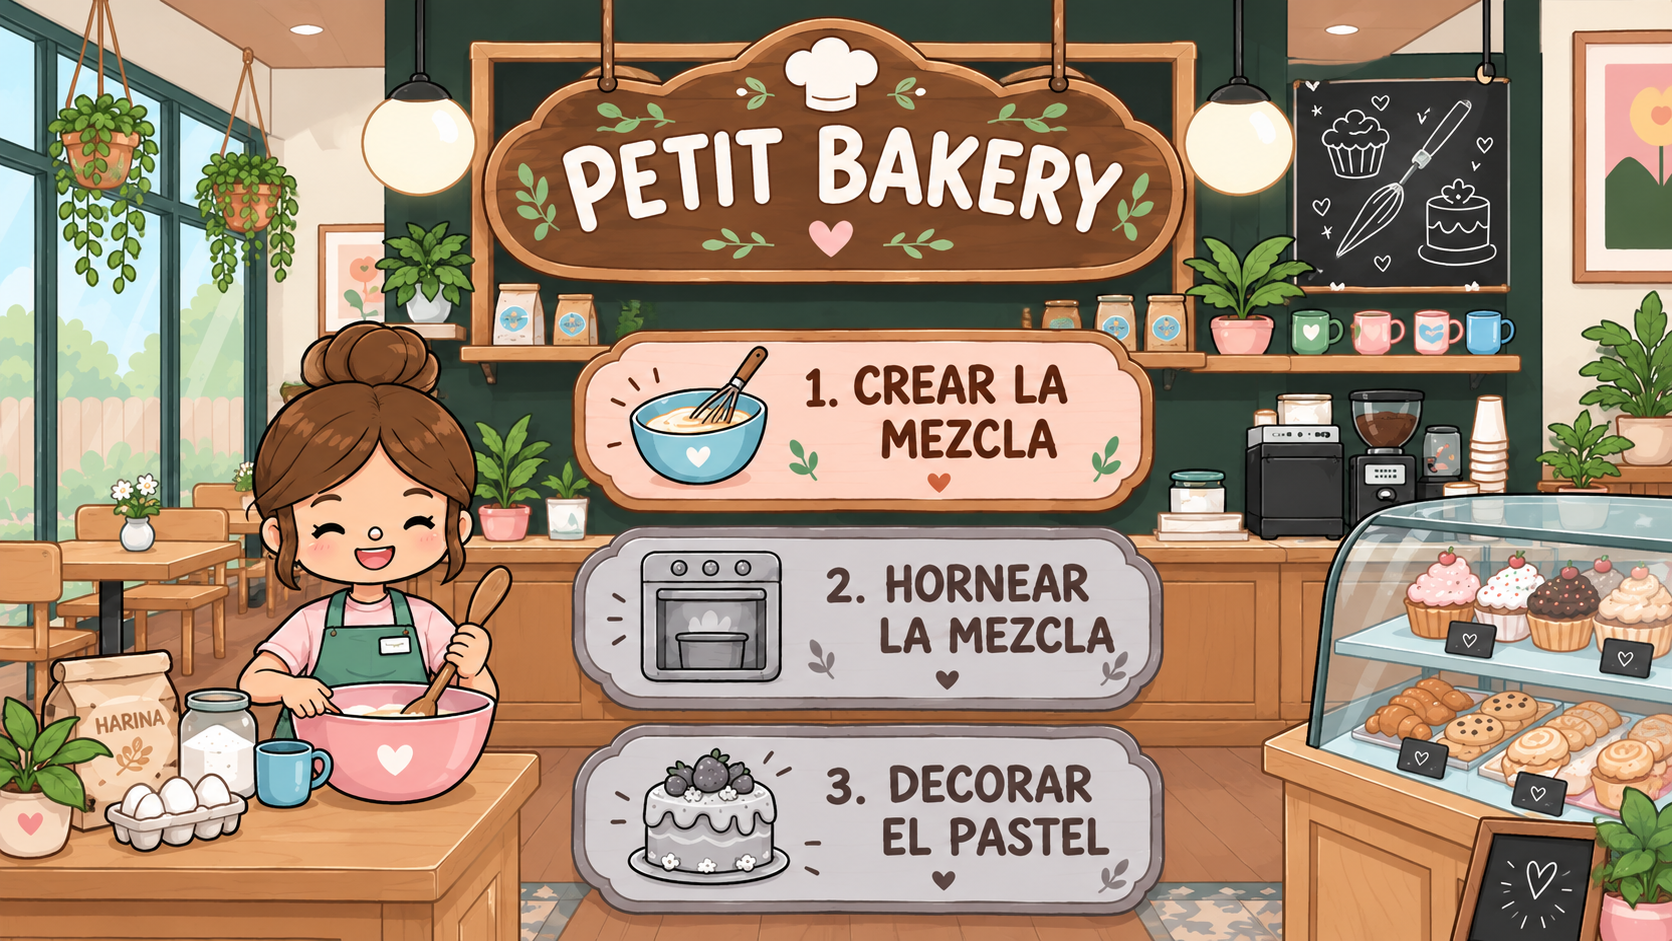
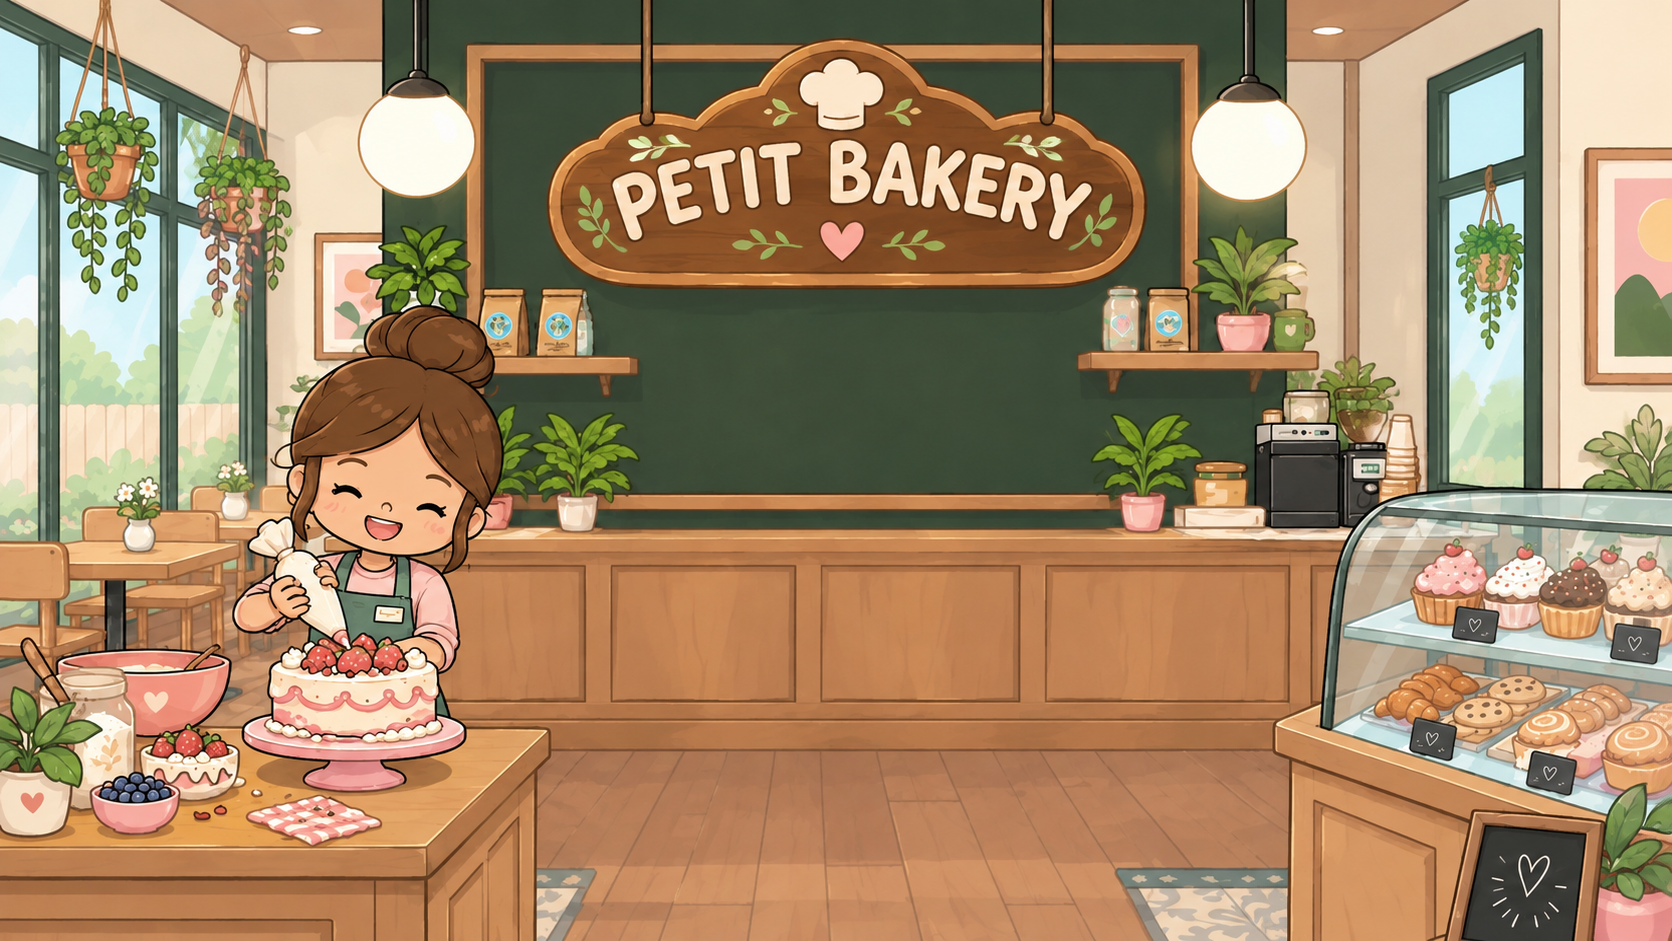
Botones terminados. Empezar Etapa 1 de juego

diff --git a/frontend/src/app/competencia/competencia.module.css b/frontend/src/app/competencia/competencia.module.css
@@ -4,17 +4,44 @@
   width: 100vw;
   height: 100vh;
 
+  display: flex;
+  flex-direction: column;
+  
+  /* Opción A: Alinea los elementos en la parte inferior */
+  justify-content: flex-end; 
+  align-items: center;
+  gap: 15px;
+
+  /* Agrega un margen inferior para que no peguen al borde de abajo */
+  padding-bottom: 60px; 
+
   background-image: url("/pasoEmpezar.png");
   background-size: cover;
   background-position: center;
   background-repeat: no-repeat;
 }
-
-.boton-invisible {
-  background: transparent !important;
-  border: none !important;
-  color: transparent !important;
-  outline: none !important;
-  box-shadow: none !important;
+.btn-imagen {
+  background: transparent;
+  border: none;
+  padding: 0;
   cursor: pointer;
+  outline: none;
+  display: inline-block;
+  transition: transform 0.2s ease, filter 0.2s ease; 
+}
+
+.btn-imagen img {
+  width: 420px; /* Tamaño ajustado para que se aprecien bien en vertical */
+  height: auto;  
+  display: block;
+}
+
+/* Efectos al pasar el cursor o hacer clic */
+.btn-imagen:hover {
+  transform: scale(1.05); 
+  filter: brightness(1.1); 
+}
+
+.btn-imagen:active {
+  transform: scale(0.95);
 }

diff --git a/frontend/src/app/competencia/page.js b/frontend/src/app/competencia/page.js
@@ -13,8 +13,14 @@ export default function InicioPage() {
 
   return (
     <main className={styles.game}>
-      <button className={styles.botonInvisible}>
-        Texto oculto
+      <button type="button" className={styles["btn-imagen"]} onClick={() => router.push("/crearPastel")}>
+        <img src="/imegen1.png" alt="Boton Empezar" />
+      </button>
+      <button type="button" className={styles["btn-imagen"]}>
+        <img src="/imagen2.png" alt="Boton2" />
+      </button>
+    <button type="button" className={styles["btn-imagen"]}>
+        <img src="/imagen3.png" alt="Boton3" />
       </button>
     </main>
   );

diff --git a/frontend/src/app/crearPastel/page.js b/frontend/src/app/crearPastel/page.js
@@ -1,0 +1,9 @@
+"use client"; 
+export default function CrearPastelPage() {
+  return (
+    <div>
+      <h1>Crear el Pastel</h1>
+      
+    </div>
+  );
+}
